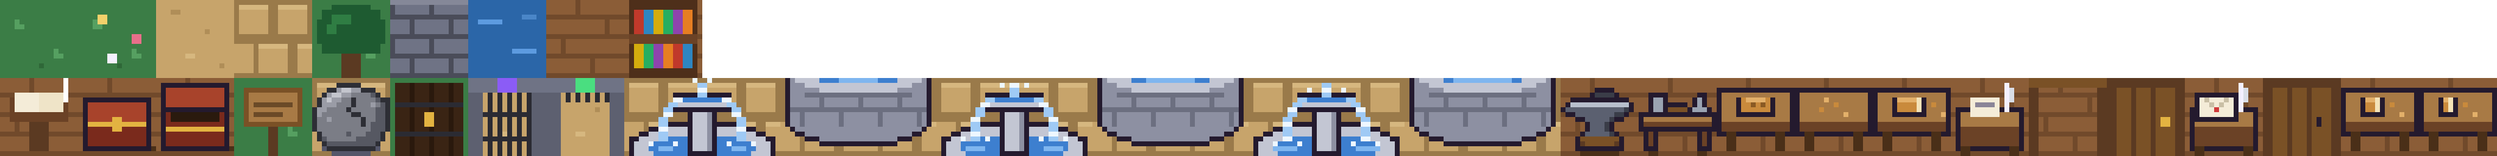
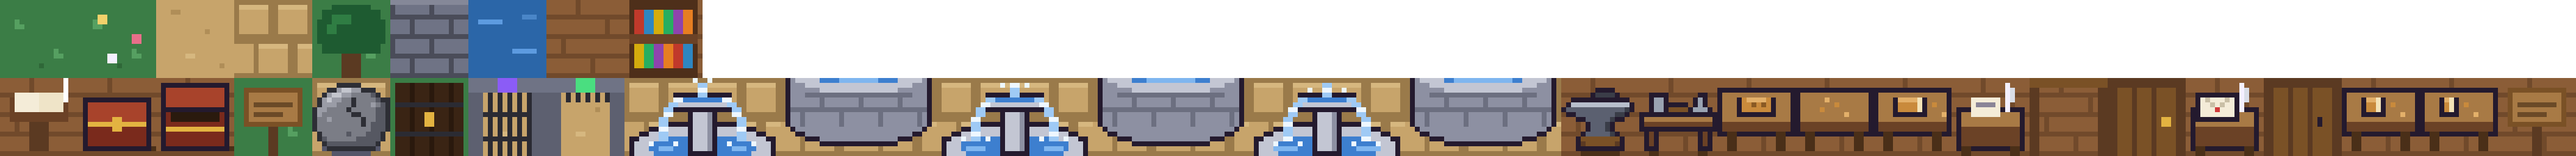
fix(art): signs indoors stand on the floor, not grass
The scriptorium's sign is the only one inside a building, and the sign
tile always drew grass behind it. A sign on a floor tile now uses a new
indoor sign tile with the floor behind it.

diff --git a/app/src/game/world.ts b/app/src/game/world.ts
@@ -38,6 +38,7 @@ export const TILE = {
   doorClosed: 38,
   tableHalf: 39,
   tableHeel: 40,
+  signIndoors: 41,
 } as const
 
 export type TileId = (typeof TILE)[keyof typeof TILE]
@@ -349,7 +350,9 @@ export function buildWorld(): World {
     { x: 22, y: 28, signId: 'keep' },
   ]
 
-  for (const sign of signs) set(sign.x, sign.y, TILE.sign)
+  // A sign takes on the ground it stands on, so one inside a building stands on its floor, not grass.
+  for (const sign of signs)
+    set(sign.x, sign.y, tiles[sign.y]?.[sign.x] === TILE.floor ? TILE.signIndoors : TILE.sign)
 
   const rocks = [
     { x: 27, y: 17 },

diff --git a/app/src/game/sheets.ts b/app/src/game/sheets.ts
@@ -3,7 +3,7 @@ export const SHEETS = {
   dog: '/assets/dog.png?v=0be57c5f01',
   items: '/assets/items.png?v=384674e5ad',
   npcs: '/assets/npcs.png?v=0a14d991e9',
-  tiles: '/assets/tiles.png?v=c563fe9fdc',
+  tiles: '/assets/tiles.png?v=6788377368',
   splash: '/assets/splash.png?v=40d2470162',
 } as const
 
